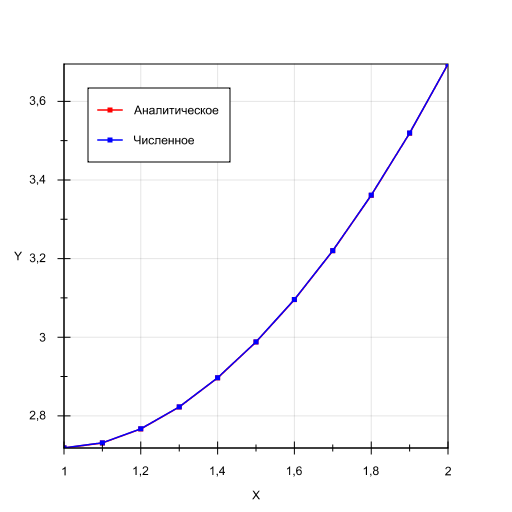
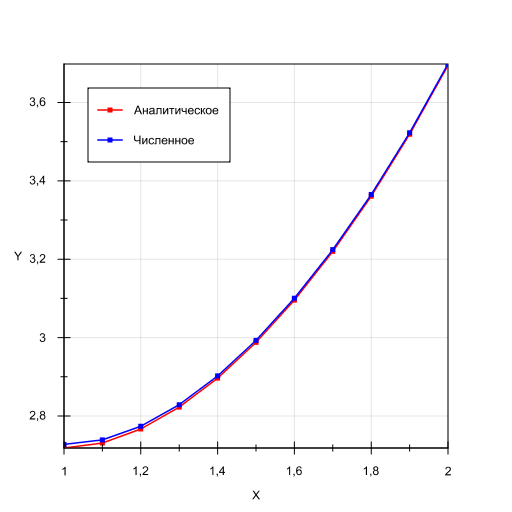
Исправлен метод конечных разностей

diff --git a/sem6/nm/libnm/src/libnm/math/method/MethodDiffEqBoundary.java b/sem6/nm/libnm/src/libnm/math/method/MethodDiffEqBoundary.java
@@ -61,8 +61,11 @@ public class MethodDiffEqBoundary {
 			vecX.set(i, vecX.get(i - 1) + m_h);
 		}
 
-		mat.set(0, 0, m_alpha + m_beta / m_h);
-		mat.set(0, 1, -m_beta / m_h);
+		//mat.set(0, 0, m_alpha - m_beta / m_h);
+		//mat.set(0, 1, m_beta / m_h);
+		mat.set(0, 0, m_alpha - 3.0 * m_beta / (2.0 * m_h));
+		mat.set(0, 1, 4.0 * m_beta / (2.0 * m_h));
+		mat.set(0, 2, -m_beta / (2.0 * m_h));
 		vec.set(0, m_y0);
 
 		for (int i = 1; i < n - 1; ++i) {
@@ -78,14 +81,18 @@ public class MethodDiffEqBoundary {
 			mat.set(i, i - 1, a);
 			mat.set(i, i, b);
 			mat.set(i, i + 1, c);
-			vec.set(i, fx);
+			vec.set(i, -fx);
 		}
 
-		mat.set(n - 1, n - 2, m_delta + m_gamma / m_h);
-		mat.set(n - 1, n - 1, -m_gamma / m_h);
+		//mat.set(n - 1, n - 2, -m_gamma / m_h);
+		//mat.set(n - 1, n - 1, m_delta + m_gamma / m_h);
+		mat.set(n - 1, n - 3, m_gamma / (2.0 * m_h));
+		mat.set(n - 1, n - 2, -4.0 * m_gamma / (2.0 * m_h));
+		mat.set(n - 1, n - 1, m_delta + 3.0 * m_gamma / (2.0 * m_h));
 		vec.set(n - 1, m_y1);
 
-		method.tma(mat, vec, vecY);
+		//method.tma(mat, vec, vecY);
+		method.lup(mat, vec, vecY);
 	}
 
 	public int getN() {
